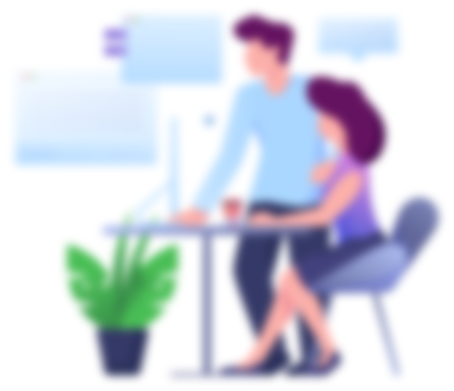
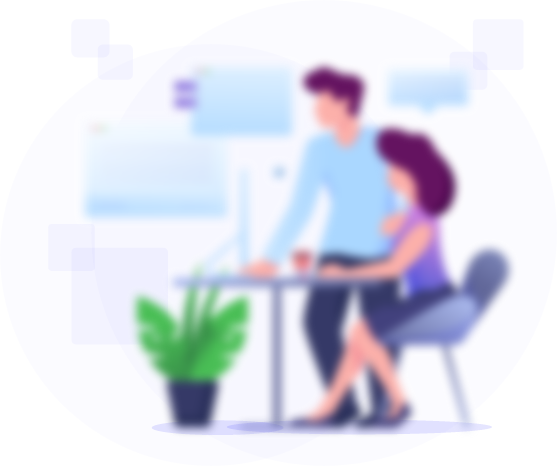
Replace images

diff --git a/index.html b/index.html
@@ -14,6 +14,7 @@
     <link rel="stylesheet" href="./css/sections/about.css" />
     <link rel="stylesheet" href="./css/sections/speciality.css" />
     <link rel="stylesheet" href="./css/sections/products.css" />
+    <link rel="stylesheet" href="./css/sections/clients.css" />
     <link
       href="https://fonts.googleapis.com/css2?family=Poppins:wght@400;500;700&display=swap"
       rel="stylesheet"
@@ -87,8 +88,8 @@
           <img src="./static/img/welcome/people.png" alt="" />
         </div>
         <img
-          class="c-welcome__rect"
-          src="./static/img/welcome/rect.png"
+          class="c-welcome__background"
+          src="./static/img/welcome/background.png"
           alt=""
         />
       </section>

diff --git a/css/sections/speciality.css b/css/sections/speciality.css
@@ -13,6 +13,8 @@
   grid-template-columns: repeat(3, 1fr);
   gap: 30px;
 
+  margin-right: 30px;
+  margin-left: 30px;
   margin-bottom: 30px;
 }
 

diff --git a/css/sections/welcome.css b/css/sections/welcome.css
@@ -25,7 +25,7 @@
   margin-right: 36px;
 }
 
-.c-welcome__rect {
+.c-welcome__background {
   position: absolute;
   bottom: 0;
   left: 0;
